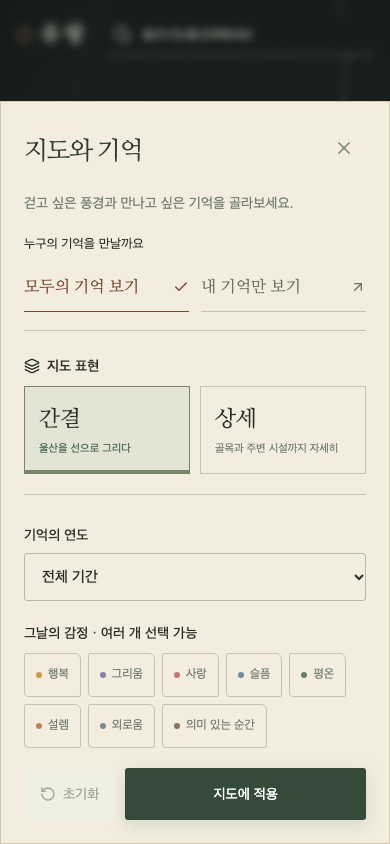
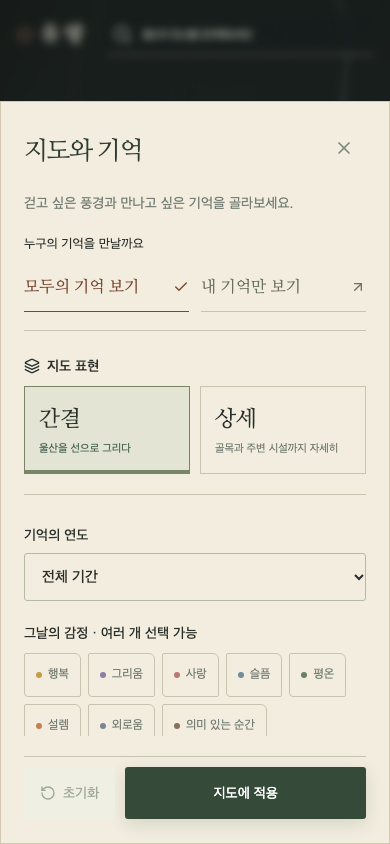
fix: keep adjustment controls accessible in short viewports

Changed region(s): [[0.5538, 0.9242, 0.7077, 0.955], [0.0923, 0.9242, 0.2462, 0.955]]

diff --git a/app/memory-atlas.css b/app/memory-atlas.css
@@ -1,4 +1,4 @@
-@font-face { font-family: "Yurang Myeongjo"; src: url("../public/fonts/nanum-myeongjo-korean-400.woff2") format("woff2"); font-style: normal; font-weight: 400; font-display: swap; }
+@font-face { font-family: "Yurang Myeongjo"; src: url("/fonts/nanum-myeongjo-korean-400.woff2") format("woff2"); font-style: normal; font-weight: 400; font-display: swap; }
 /* Yeoun 2 · Memory Atlas. Geographic projection and data are owned by the app. */
 :root {
   --atlas-charcoal: #171c1b;
@@ -421,3 +421,9 @@ body:has(.memory-atlas) .story-sheet.atlas-adjust-sheet { left: 32px !important;
 .atlas.memory-atlas.atlas-journal .my-map-filters > select { border: 0; border-bottom: 1px solid #c6c4ae; border-radius: 0; background: transparent; }
 .atlas.memory-atlas.atlas-journal .my-emotion-filters button { border-radius: 2px 5px; background: transparent; border-color: #c6c4ae; min-height: 44px; }
 .atlas.memory-atlas.atlas-journal .my-emotion-filters button.selected { background: #d9dfcb; border-color: #798568; }
+/* The filter body scrolls between fixed heading and actions at short heights. */
+body:has(.memory-atlas) .story-sheet.atlas-adjust-sheet { overflow: hidden; }
+.atlas-adjust-sheet > .sheet-heading,.atlas-adjust-sheet > .filter-sheet-actions { flex: 0 0 auto; }
+.atlas-adjust-sheet > .filter-sheet-actions { position: static; margin: 0; padding-top: 10px; background: var(--atlas-paper); border-top: 1px solid #c6c4ae; }
+.atlas-adjust-scroll { min-height: 0; overflow-y: auto; overscroll-behavior: contain; display: flex; flex-direction: column; gap: 20px; padding: 0 7px 4px 0; margin-right: -7px; scrollbar-color: #a8b294 #e6e4d6; }
+.atlas-adjust-scroll > * { flex: 0 0 auto; }

diff --git a/tests/e2e/atlas.spec.ts b/tests/e2e/atlas.spec.ts
@@ -189,3 +189,23 @@ test('라인 데이터 실패와 울산 밖 현재 위치에서는 raster 호환
   await expect(page.locator('.ulsan-line-map')).toBeHidden();
   await expect(page.locator('.raster-map > img').first()).toBeVisible();
 });
+
+test('높이가 낮은 화면에서도 조정의 마지막 선택과 적용 버튼이 겹치지 않는다', async ({ page }, info) => {
+  await page.setViewportSize(info.project.name.startsWith('mobile') ? { width: 390, height: 667 } : { width: 1280, height: 720 });
+  await page.goto('./');
+  await page.getByRole('button', { name: /^지도 조정 열기/ }).click();
+  const sheet = page.getByRole('dialog');
+  const last = sheet.getByRole('button', { name: '의미 있는 순간', exact: true });
+  await last.scrollIntoViewIfNeeded();
+  await last.click();
+  await expect(last).toHaveAttribute('aria-pressed', 'true');
+  const lastBounds = await last.boundingBox();
+  const apply = sheet.getByRole('button', { name: '지도에 적용' });
+  const applyBounds = await apply.boundingBox();
+  expect(lastBounds!.y + lastBounds!.height).toBeLessThanOrEqual(applyBounds!.y);
+  await expect(apply).toBeInViewport();
+  await expect(sheet.getByRole('button', { name: '지도 조정 닫기' })).toBeInViewport();
+  await page.screenshot({ path: `test-results/screenshots/yurang-short-adjust-${info.project.name}.png`, animations: 'disabled' });
+  await apply.click();
+  await expect(sheet).toBeHidden();
+});

diff --git a/components/memories/memory-filter-sheet.tsx b/components/memories/memory-filter-sheet.tsx
@@ -69,6 +69,7 @@ export default function MemoryFilterSheet({
               <X size={20} />
             </SheetClose>
           </div>
+          <div className="atlas-adjust-scroll" aria-label="지도 조정 내용">
           <SheetDescription>
             걷고 싶은 풍경과 만나고 싶은 기억을 골라보세요.
           </SheetDescription>
@@ -149,6 +150,7 @@ export default function MemoryFilterSheet({
             </fieldset>
           </div>
 
+          </div>
           <div className="filter-sheet-actions">
             <button
               type="button"

diff --git a/docs/design/YURANG-REFINEMENT.md b/docs/design/YURANG-REFINEMENT.md
@@ -31,7 +31,9 @@ API·인증·저장소·DB schema 및 `src/`의 비즈니스 로직은 변경하
 ## 실제 검증
 
 - `pnpm check` 통과: lint·typecheck·단위 테스트 10개·Worker build·Pages build.
-- 최종 `pnpm test:ui` 데스크톱 1440×900 / 모바일 390×844 **24개 통과**.
+- 최종 `pnpm test:ui` 데스크톱 1440×900 / 모바일 390×844 및 낮은 화면 1280×720 / 390×667 **26개 통과**.
+- 실제 공개 화면의 낮은 데스크톱 창에서 조정의 sticky footer가 필터 내용을 가리는 문제를 발견해 수정했습니다. 제목·닫기와 적용 버튼을 고정하고 필터 내용만 독립 스크롤합니다. 마지막 감정 버튼과 적용 버튼이 겹치지 않는지 두 낮은 viewport에서 검사하고 캡처했습니다.
+- Vite 개발 환경의 `/public/fonts` 경로 경고를 제거하고 `/fonts` public asset 경로를 사용합니다. Pages build가 `/yeoun_2/fonts`로 변환하는 것과 실제 글꼴 로딩을 재검증했습니다.
 - 신규 검사: 두 지도 모드에서 같은 마커 위치 오차 1px 미만, 로컬 세리프 로딩, 장식 overline 미노출, 조정의 마지막 감정 선택·초기화, 기억 범위 전환과 로그인 경계·필터 전달, 라인 파일 실패와 울산 밖 현재 위치의 raster fallback.
 - 기존 사진 5장·장문 스크롤·공개/비공개 분리·검색·확대/드래그·장소별 기억·작성·사진·수정·삭제·현재 위치·reduced motion·키보드·튜토리얼 10단계 검사 유지.
 - 첫 신규 모바일 검사에서 데스크톱 전용 heading을 찾는 테스트가 실패했습니다. 모바일의 실제 owner route·목록·선택된 scope를 검사하도록 수정했습니다. 사진·개인정보·CRUD assertion은 유지했습니다.

diff --git a/docs/design/DESIGN-DNA.md b/docs/design/DESIGN-DNA.md
@@ -84,7 +84,7 @@
 
 ## 검증
 
-데스크톱 1440×900 및 모바일 390×844의 Playwright 24개 테스트가 통과했습니다. 튜토리얼 열 단계·사진 5장·긴 본문·비공개 미노출·현재 위치·장소 내 다음 기억·reduced-motion·키보드 복귀에 더해 라인 지도 좌표 일치·데이터 실패 fallback·기억 범위 전환을 검사합니다. lint, typecheck, 단위 테스트 10개, Worker 및 Pages build가 통과했습니다.
+데스크톱 1440×900 및 모바일 390×844, 낮은 화면 1280×720 및 390×667의 Playwright 26개 테스트가 통과했습니다. 튜토리얼 열 단계·사진 5장·긴 본문·비공개 미노출·현재 위치·장소 내 다음 기억·reduced-motion·키보드 복귀에 더해 라인 지도 좌표 일치·데이터 실패 fallback·기억 범위 전환·조정의 독립 스크롤과 버튼 겹침을 검사합니다. lint, typecheck, 단위 테스트 10개, Worker 및 Pages build가 통과했습니다.
 
 실기기 iOS/Android, 전 브라우저 접근성 준수 인증, 저사양 FPS와 실제 NAVER panorama 조회는 이번 테스트 범위가 아닙니다.
 

diff --git a/public/fonts/README.md b/public/fonts/README.md
@@ -5,4 +5,4 @@
 - 배포 출처: [Fontsource @fontsource/nanum-myeongjo 5.3.0](https://www.npmjs.com/package/@fontsource/nanum-myeongjo)
 - 원본 파일: `files/nanum-myeongjo-korean-400-normal.woff2`
 - 라이선스: SIL Open Font License 1.1. 원본 고지 전문은 `OFL-NanumMyeongjo.txt`에 보존합니다.
-- 런타임 패키지 의존성은 추가하지 않았습니다. CSS의 상대 URL을 통해 두 Vite 빌드가 각 base 경로에 맞는 URL을 생성합니다.
+- 런타임 패키지 의존성은 추가하지 않았습니다. CSS는 public asset의 `/fonts/` 경로를 사용하고 Vite가 Pages의 base 경로를 적용합니다. Worker 개발 환경에서도 `/public/` 경로를 요청하지 않습니다.
